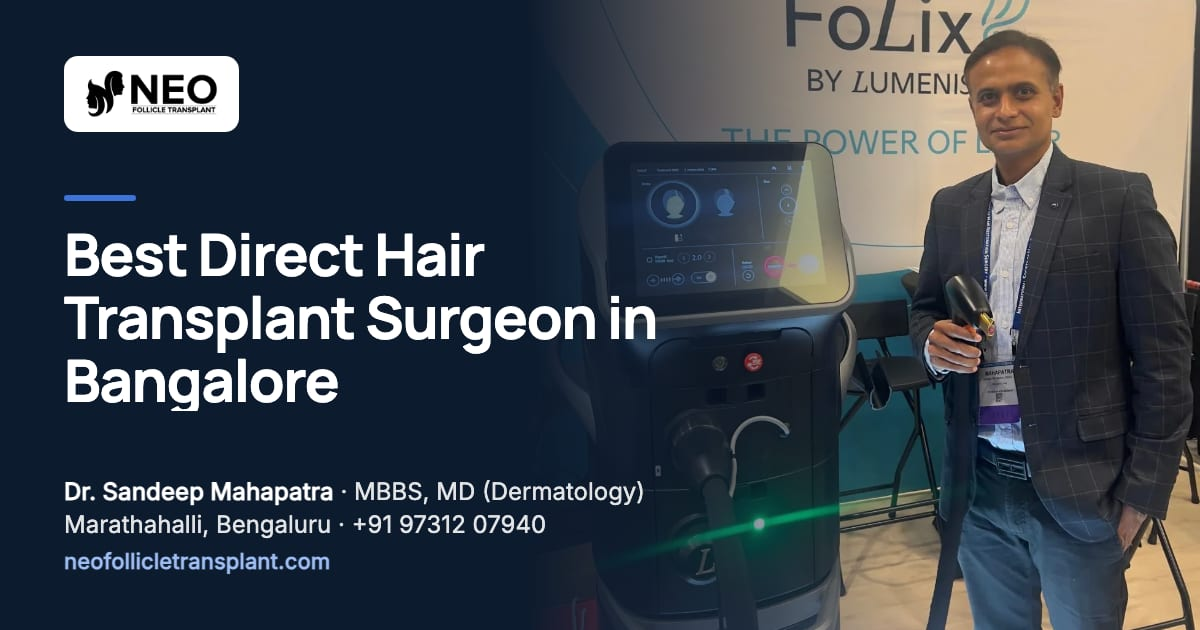
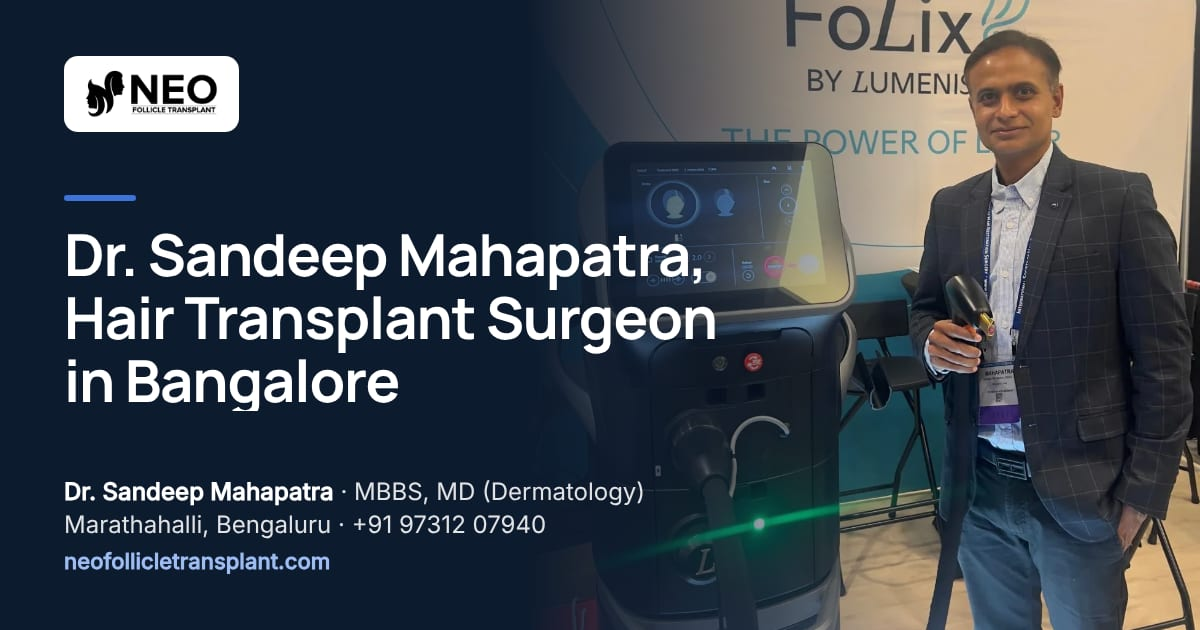
seo: stop share cards and llms.txt calling pages "Best…"; Dutexome H1
The SEO registry's h1 (captured from the old WordPress pages) still read
"Best GFC…", "Best PRP…", "Best Doctor…" etc. on 12 pages. That text is
used for the 1200x630 share card, og:image:alt, generated breadcrumbs and
llms.txt link text -- i.e. it is what WhatsApp/LinkedIn previews and AI
crawlers see, even though the visible H1s on those pages already avoid
the self-claim.

- scripts/gen-seo.mjs: overrides.json accepts "h1"
- content/seo/overrides.json: h1 for 11 slugs, each set to the page's
  visible H1 (no visible copy changes on those pages)
- Dutexome: visible H1 "Best Dutexome Hair Treatment…" ->
  "Dutexome Hair Treatment in Bangalore"
- public/og/: the 12 affected cards regenerated (npm run gen:og)

Titles are unchanged here. /best-hair-transplant-in-bangalore/ and
/best-prp-hair-treatment-in-bangalore/ keep "Best" in <title> because it
matches the query people type; see docs/seo-audit/05-compliance.md for
the clinic decision on that.

npm run verify: 24/24. typecheck clean.

Claude-Session: https://claude.ai/code/session_01YAS4K8TYZWagrCV1BDsuMY

diff --git a/src/seo/pages.ts b/src/seo/pages.ts
@@ -117,7 +117,7 @@ export const pages: PageSeo[] = [
       "image": "https://neofollicletransplant.com/og/alopecia-areata-treatment-in-bangalore.jpg",
       "siteName": "Neo Follicle Hair Transplant",
       "locale": "en_IN",
-      "imageAlt": "Best Alopecia Areata Treatment in Bangalore",
+      "imageAlt": "Alopecia Treatment in Bangalore with Dermatologist-Led Diagnosis",
       "imageWidth": 1200,
       "imageHeight": 630
     },
@@ -127,7 +127,7 @@ export const pages: PageSeo[] = [
       "description": "Sudden bald patches? Dermatologist-led alopecia areata treatment in Bangalore: diagnosis, steroid therapy, PRP and GFC to help regrow hair. Book a visit.",
       "image": "https://neofollicletransplant.com/og/alopecia-areata-treatment-in-bangalore.jpg"
     },
-    "h1": "Best Alopecia Areata Treatment in Bangalore",
+    "h1": "Alopecia Treatment in Bangalore with Dermatologist-Led Diagnosis",
     "inSitemap": true,
     "lastmod": "2026-05-26T16:50:38+05:30"
   },
@@ -213,7 +213,7 @@ export const pages: PageSeo[] = [
       "image": "https://neofollicletransplant.com/og/best-hair-transplant-in-bangalore.jpg",
       "siteName": "Neo Follicle Hair Transplant",
       "locale": "en_IN",
-      "imageAlt": "Best Direct Hair Transplant in Bangalore for Natural, Long-Lasting Hair Growth",
+      "imageAlt": "Direct Hair Transplant in Bangalore for Natural-Looking Hair Restoration",
       "imageWidth": 1200,
       "imageHeight": 630
     },
@@ -223,7 +223,7 @@ export const pages: PageSeo[] = [
       "description": "FUE, DHI and NFT hair transplant in Bangalore by a certified DHI Specialist. Doctor-led planning, natural hairline design and personalised aftercare.",
       "image": "https://neofollicletransplant.com/og/best-hair-transplant-in-bangalore.jpg"
     },
-    "h1": "Best Direct Hair Transplant in Bangalore for Natural, Long-Lasting Hair Growth",
+    "h1": "Direct Hair Transplant in Bangalore for Natural-Looking Hair Restoration",
     "inSitemap": true,
     "lastmod": "2026-05-29T19:39:54+05:30"
   },
@@ -309,7 +309,7 @@ export const pages: PageSeo[] = [
       "image": "https://neofollicletransplant.com/og/best-prp-hair-treatment-in-bangalore.jpg",
       "siteName": "Neo Follicle Hair Transplant",
       "locale": "en_IN",
-      "imageAlt": "Best PRP Hair Treatment in Bangalore",
+      "imageAlt": "PRP Hair Loss Treatment in Bangalore for Stronger, Healthier Hair",
       "imageWidth": 1200,
       "imageHeight": 630
     },
@@ -319,7 +319,7 @@ export const pages: PageSeo[] = [
       "description": "PRP hair treatment in Bangalore to slow hair fall and thicken thinning hair, delivered by dermatologists at Neo Follicle. See sessions and results.",
       "image": "https://neofollicletransplant.com/og/best-prp-hair-treatment-in-bangalore.jpg"
     },
-    "h1": "Best PRP Hair Treatment in Bangalore",
+    "h1": "PRP Hair Loss Treatment in Bangalore for Stronger, Healthier Hair",
     "inSitemap": true,
     "lastmod": "2026-05-26T16:42:52+05:30"
   },
@@ -501,7 +501,7 @@ export const pages: PageSeo[] = [
       "image": "https://neofollicletransplant.com/og/dandruff-treatment-in-bangalore.jpg",
       "siteName": "Neo Follicle Hair Transplant",
       "locale": "en_IN",
-      "imageAlt": "Best Dandruff Treatment in Bangalore",
+      "imageAlt": "Dandruff Solutions in Bangalore for a Healthier Scalp",
       "imageWidth": 1200,
       "imageHeight": 630
     },
@@ -511,7 +511,7 @@ export const pages: PageSeo[] = [
       "description": "Tried every shampoo and still have dandruff? Get dermatologist-led dandruff and scalp treatment in Bangalore for lasting, flake-free relief at Neo Follicle.",
       "image": "https://neofollicletransplant.com/og/dandruff-treatment-in-bangalore.jpg"
     },
-    "h1": "Best Dandruff Treatment in Bangalore",
+    "h1": "Dandruff Solutions in Bangalore for a Healthier Scalp",
     "inSitemap": true,
     "lastmod": "2026-05-26T16:52:07+05:30"
   },
@@ -565,7 +565,7 @@ export const pages: PageSeo[] = [
       "image": "https://neofollicletransplant.com/og/dr-sandeep-mahapatra-hair-transplant-surgeon.jpg",
       "siteName": "Neo Follicle Hair Transplant",
       "locale": "en_IN",
-      "imageAlt": "Best Direct Hair Transplant Surgeon in Bangalore",
+      "imageAlt": "Dr. Sandeep Mahapatra, Hair Transplant Surgeon in Bangalore",
       "imageWidth": 1200,
       "imageHeight": 630
     },
@@ -575,7 +575,7 @@ export const pages: PageSeo[] = [
       "description": "Dr. Sandeep Mahapatra: Senior Dermatologist, Hair Transplant Surgeon and certified DHI Specialist (DHI Global, Greece) with 20+ years' experience.",
       "image": "https://neofollicletransplant.com/og/dr-sandeep-mahapatra-hair-transplant-surgeon.jpg"
     },
-    "h1": "Best Direct Hair Transplant Surgeon in Bangalore",
+    "h1": "Dr. Sandeep Mahapatra, Hair Transplant Surgeon in Bangalore",
     "inSitemap": true,
     "lastmod": "2026-05-27T08:17:58+05:30"
   },
@@ -597,7 +597,7 @@ export const pages: PageSeo[] = [
       "image": "https://neofollicletransplant.com/og/exosome-hair-treatment-in-bangalore.jpg",
       "siteName": "Neo Follicle Hair Transplant",
       "locale": "en_IN",
-      "imageAlt": "Best Exosome Hair Treatment in Bangalore",
+      "imageAlt": "Exosome Therapy in Bangalore for Advanced Hair Restoration",
       "imageWidth": 1200,
       "imageHeight": 630
     },
@@ -607,7 +607,7 @@ export const pages: PageSeo[] = [
       "description": "Exosome hair treatment in Bangalore: who it suits, how many sessions are needed and how it compares with PRP and GFC. Planned by dermatologists at Neo Follicle.",
       "image": "https://neofollicletransplant.com/og/exosome-hair-treatment-in-bangalore.jpg"
     },
-    "h1": "Best Exosome Hair Treatment in Bangalore",
+    "h1": "Exosome Therapy in Bangalore for Advanced Hair Restoration",
     "inSitemap": true,
     "lastmod": "2026-05-26T16:46:45+05:30"
   },
@@ -629,7 +629,7 @@ export const pages: PageSeo[] = [
       "image": "https://neofollicletransplant.com/og/eyebrow-restoration-in-bangalore.jpg",
       "siteName": "Neo Follicle Hair Transplant",
       "locale": "en_IN",
-      "imageAlt": "Best Eyebrow Restoration in Bangalore",
+      "imageAlt": "Eyebrow Restoration in Bangalore for Naturally Fuller Brows",
       "imageWidth": 1200,
       "imageHeight": 630
     },
@@ -639,7 +639,7 @@ export const pages: PageSeo[] = [
       "description": "Eyebrow transplant in Bangalore at Neo Follicle: fuller, natural-looking brows planned around hair direction, angle and density. See before-and-after results.",
       "image": "https://neofollicletransplant.com/og/eyebrow-restoration-in-bangalore.jpg"
     },
-    "h1": "Best Eyebrow Restoration in Bangalore",
+    "h1": "Eyebrow Restoration in Bangalore for Naturally Fuller Brows",
     "inSitemap": true,
     "lastmod": "2026-05-28T14:04:53+05:30"
   },
@@ -821,7 +821,7 @@ export const pages: PageSeo[] = [
       "image": "https://neofollicletransplant.com/og/gfc-hair-treatment-in-bangalore.jpg",
       "siteName": "Neo Follicle Hair Transplant",
       "locale": "en_IN",
-      "imageAlt": "Best GFC Hair Treatment in Bangalore",
+      "imageAlt": "Growth Factor Concentrate (GFC) Hair Treatment in Bangalore",
       "imageWidth": 1200,
       "imageHeight": 630
     },
@@ -831,7 +831,7 @@ export const pages: PageSeo[] = [
       "description": "GFC hair treatment in Bangalore: sessions most patients need, results to expect and real before-and-after photos. Dermatologist-led at Neo Follicle.",
       "image": "https://neofollicletransplant.com/og/gfc-hair-treatment-in-bangalore.jpg"
     },
-    "h1": "Best GFC Hair Treatment in Bangalore",
+    "h1": "Growth Factor Concentrate (GFC) Hair Treatment in Bangalore",
     "inSitemap": true,
     "lastmod": "2026-05-26T16:44:19+05:30"
   },
@@ -1333,7 +1333,7 @@ export const pages: PageSeo[] = [
       "image": "https://neofollicletransplant.com/og/low-level-laser-therapy.jpg",
       "siteName": "Neo Follicle Hair Transplant",
       "locale": "en_IN",
-      "imageAlt": "Best Low Level Laser Therapy in Bangalore",
+      "imageAlt": "Low Level Laser Hair Therapy in Bangalore",
       "imageWidth": 1200,
       "imageHeight": 630
     },
@@ -1343,7 +1343,7 @@ export const pages: PageSeo[] = [
       "description": "Low level laser therapy (LLLT) in Bangalore: a painless, non-surgical way to stimulate follicles and slow hair fall, supervised by dermatologists.",
       "image": "https://neofollicletransplant.com/og/low-level-laser-therapy.jpg"
     },
-    "h1": "Best Low Level Laser Therapy in Bangalore",
+    "h1": "Low Level Laser Hair Therapy in Bangalore",
     "inSitemap": true,
     "lastmod": "2026-05-26T16:48:31+05:30"
   },
@@ -1653,7 +1653,7 @@ export const pages: PageSeo[] = [
       "image": "https://neofollicletransplant.com/og/qr678-hair-treatment-in-bangalore.jpg",
       "siteName": "Neo Follicle Hair Transplant",
       "locale": "en_IN",
-      "imageAlt": "Best QR678 Neo Treatment in Bangalore",
+      "imageAlt": "Neo QR678 Treatment in Bangalore for Advanced Hair Loss Management",
       "imageWidth": 1200,
       "imageHeight": 630
     },
@@ -1663,7 +1663,7 @@ export const pages: PageSeo[] = [
       "description": "QR678 Neo hair treatment in Bangalore: a clinically tested peptide therapy to reduce hair fall and regrow thinning hair, delivered by Neo Follicle doctors.",
       "image": "https://neofollicletransplant.com/og/qr678-hair-treatment-in-bangalore.jpg"
     },
-    "h1": "Best QR678 Neo Treatment in Bangalore",
+    "h1": "Neo QR678 Treatment in Bangalore for Advanced Hair Loss Management",
     "inSitemap": true,
     "lastmod": "2026-05-26T16:45:42+05:30"
   },
@@ -1717,7 +1717,7 @@ export const pages: PageSeo[] = [
       "image": "https://neofollicletransplant.com/og/scalp-micropigmentation-in-bangalore.jpg",
       "siteName": "Neo Follicle Hair Transplant",
       "locale": "en_IN",
-      "imageAlt": "Best Scalp Micropigmentation in Bangalore",
+      "imageAlt": "Scalp Micropigmentation in Bangalore for the Appearance of Fuller Hair",
       "imageWidth": 1200,
       "imageHeight": 630
     },
@@ -1727,7 +1727,7 @@ export const pages: PageSeo[] = [
       "description": "Scalp micropigmentation in Bangalore for the look of a fuller head or a crisp shaved style without surgery. Natural, long-lasting SMP at Neo Follicle.",
       "image": "https://neofollicletransplant.com/og/scalp-micropigmentation-in-bangalore.jpg"
     },
-    "h1": "Best Scalp Micropigmentation in Bangalore",
+    "h1": "Scalp Micropigmentation in Bangalore for the Appearance of Fuller Hair",
     "inSitemap": true,
     "lastmod": "2026-05-26T16:49:36+05:30"
   },
@@ -1973,7 +1973,7 @@ export const pages: PageSeo[] = [
       "image": "https://neofollicletransplant.com/og/dutexome-hair-treatment-in-bangalore.jpg",
       "siteName": "Neo Follicle Hair Transplant",
       "locale": "en_IN",
-      "imageAlt": "Best Dutexome Hair Treatment in Bangalore",
+      "imageAlt": "Dutexome Hair Treatment in Bangalore",
       "imageWidth": 1200,
       "imageHeight": 630
     },
@@ -1983,7 +1983,7 @@ export const pages: PageSeo[] = [
       "description": "Explore Dutexome hair treatment in Bangalore at Neo Follicle, a doctor-led microneedling protocol for selected patients with early to moderate hair thinning.",
       "image": "https://neofollicletransplant.com/og/dutexome-hair-treatment-in-bangalore.jpg"
     },
-    "h1": "Best Dutexome Hair Treatment in Bangalore",
+    "h1": "Dutexome Hair Treatment in Bangalore",
     "inSitemap": true,
     "lastmod": "2026-09-22T00:00:00+05:30"
   },

diff --git a/src/content/treatments/dutexome-hair-treatment-in-bangalore.ts b/src/content/treatments/dutexome-hair-treatment-in-bangalore.ts
@@ -15,7 +15,7 @@ const data: TreatmentPageData = {
   slug: 'dutexome-hair-treatment-in-bangalore',
   hero: {
     eyebrow: 'DHT-Blocking & Regenerative Care',
-    h1: 'Best Dutexome Hair Treatment in Bangalore',
+    h1: 'Dutexome Hair Treatment in Bangalore',
     lede: [
       'A clinically formulated option for selected patients experiencing androgenetic alopecia or diffuse hair thinning.',
       'Neo Follicle uses the genuine Mesoestetic c.prof 231 Dutexome Solution in a doctor-led treatment plan tailored to your scalp and stage of hair loss.',
